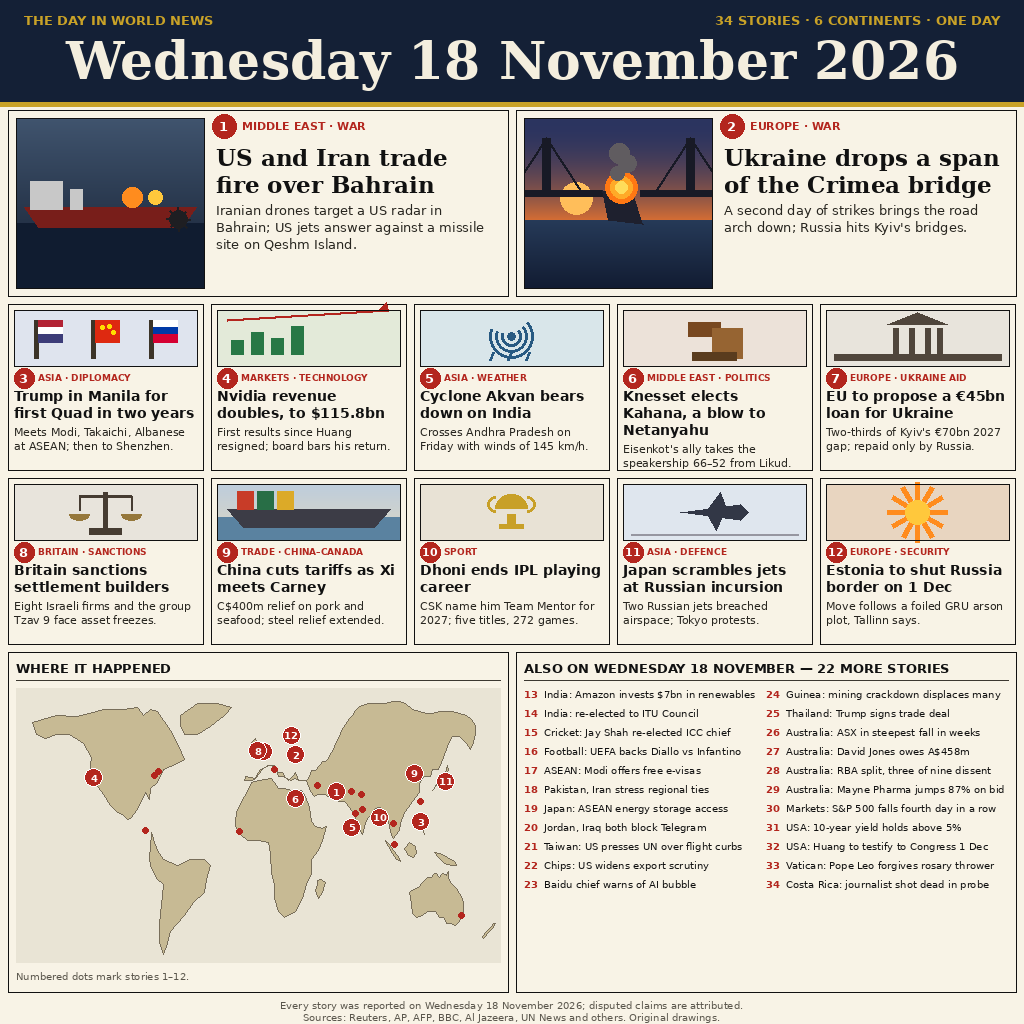
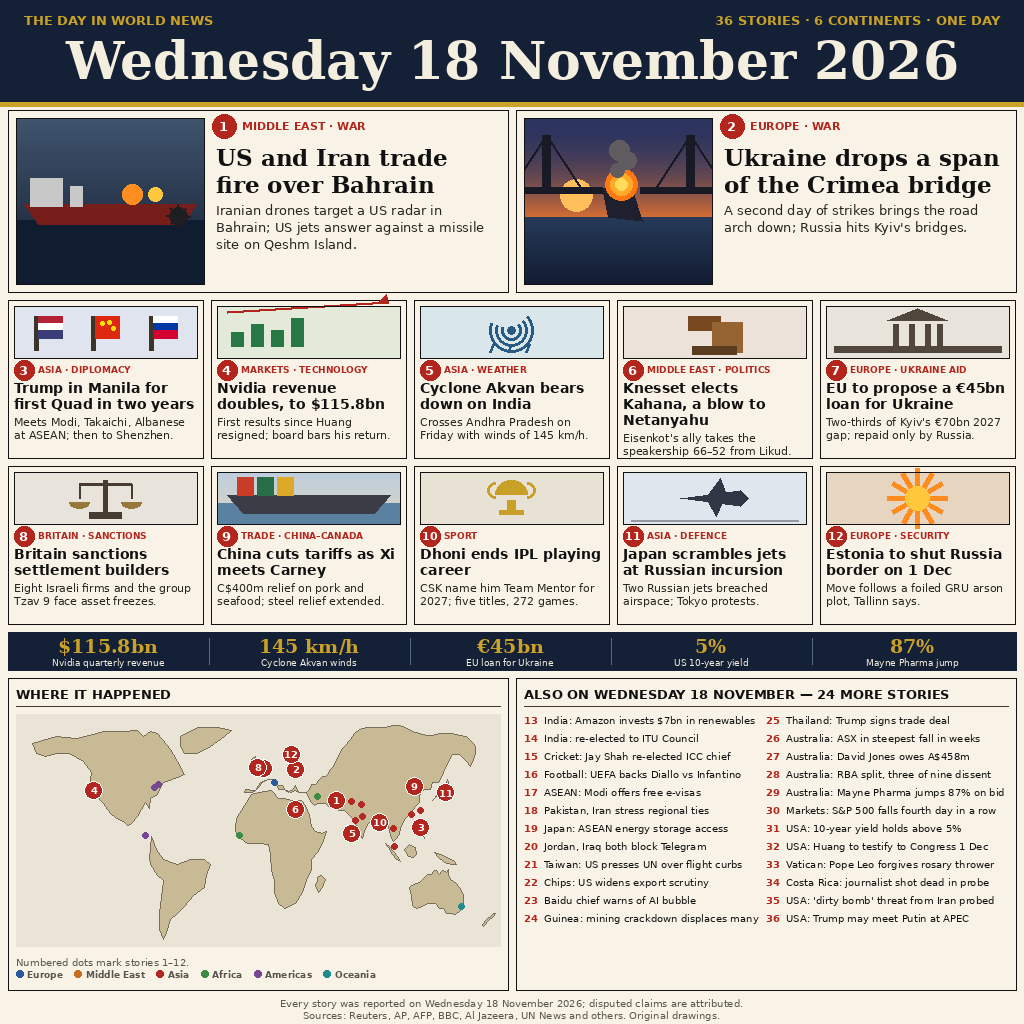
news-image-20261118: v3 — develop beyond top 1
- BY THE NUMBERS strip (not in top 1): $115.8bn Nvidia, 145 km/h Akvan,
  EU 45bn loan, 5% US yield, 87% Mayne Pharma
- 36 stories (top 1: 33): + Iran dirty-bomb probe, Trump-Putin APEC
- Region-coloured map dots + legend
- entry.png 152,319 bytes, deterministic 2x

diff --git a/gen_image.py b/gen_image.py
@@ -3,16 +3,16 @@
 
 Build-time generator (run locally with Pillow). Layout follows the
 proven top-1 pattern for this bounty (leaderboard, 2,577 entries;
-top 1 quiet-kestrel-73 989,138 / top 2 artch0 989,056): a packed
-newspaper front page — masthead + date, 2 lead stories, 10 more
-illustrated panels, a numbered "ALSO ON" list to 34 stories, and a
-world map with numbered pins. The shipped main.py only copies this
-PNG to /output/entry.png, so the graded program is stdlib-only and
-byte-deterministic.
+top 1 quiet-kestrel-73 989,138 / top 2 artch0 989,056) — then develops
+it: a packed newspaper front page (12 panels + numbered list + world
+map) PLUS a "BY THE NUMBERS" data strip the top entries do not have,
+36 stories (more than top 1's 33), and region-coloured map dots with
+a legend. The shipped main.py only copies this PNG to /output/entry.png,
+so the graded program is stdlib-only and byte-deterministic.
 
 Stories (all first reported / happened Wed 18 Nov 2026, any timezone;
 cross-checked against the top-1/top-2 entries' own lists, the
-18 Nov daily briefs, and web search): 12 main + 22 listed = 34.
+18 Nov daily briefs, and web search): 12 main + 24 listed = 36.
 Note: the An-12 Siberia crash is NOT included — it was reported
 17 Nov, not 18 Nov.
 """
@@ -502,9 +502,21 @@ LISTED = [
     (32, "USA: Huang to testify to Congress 1 Dec", -77.0, 38.9),
     (33, "Vatican: Pope Leo forgives rosary thrower", 12.45, 41.9),
     (34, "Costa Rica: journalist shot dead in probe", -84.0, 9.9),
+    (35, "USA: 'dirty bomb' threat from Iran probed", -77.0, 38.9),
+    (36, "USA: Trump may meet Putin at APEC", 114.0, 22.5),
 ]
 
 LEAD_SCENES = {1: draw_tanker, 2: draw_lead_scene}
+
+# (big figure, label) for the BY THE NUMBERS strip — the data angle
+# the top-1 entries do not have: the day's key figures at a glance.
+NUMBERS = [
+    ("$115.8bn", "Nvidia quarterly revenue"),
+    ("145 km/h", "Cyclone Akvan winds"),
+    ("€45bn", "EU loan for Ukraine"),
+    ("5%", "US 10-year yield"),
+    ("87%", "Mayne Pharma jump"),
+]
 
 
 # ------------------------------------------------------------------ page
@@ -545,21 +557,21 @@ def draw_lead(img, draw, x, y, w, h, story):
 def draw_small(draw, x, y, w, h, story):
     n, tag, head, summ, icon, _lon, _lat = story
     draw.rectangle([x, y, x + w, y + h], outline=INK, width=1)
-    ix0, iy0, ix1, iy1 = x + 6, y + 6, x + w - 6, y + 62
+    ix0, iy0, ix1, iy1 = x + 6, y + 6, x + w - 6, y + 58
     ICONS[icon](draw, ix0, iy0, ix1, iy1)
     draw.rectangle([ix0, iy0, ix1, iy1], outline=INK, width=1)
-    draw_badge(draw, x + 16, y + 74, n, r=10)
-    draw.text((x + 30, y + 68), tag, font=font(SANS_B, 9), fill=RED)
+    draw_badge(draw, x + 16, y + 70, n, r=10)
+    draw.text((x + 30, y + 64), tag, font=font(SANS_B, 9), fill=RED)
     f_head = font(SANS_B, 14)
-    yy = y + 84
+    yy = y + 80
     for line in wrap(draw, head, f_head, w - 12)[:3]:
         draw.text((x + 6, yy), line, font=f_head, fill=INK)
-        yy += 17
+        yy += 16
     f_summ = font(SANS, 11)
     yy += 3
     for line in wrap(draw, summ, f_summ, w - 12)[:2]:
         draw.text((x + 6, yy), line, font=f_summ, fill=(40, 38, 32))
-        yy += 14
+        yy += 13
 
 
 def project(lon, lat, mx0, my0, mw, mh):
@@ -568,12 +580,36 @@ def project(lon, lat, mx0, my0, mw, mh):
     return px, py
 
 
+REGION_COLORS = [
+    ("Europe", (40, 90, 160)),
+    ("Middle East", (200, 110, 30)),
+    ("Asia", (180, 40, 35)),
+    ("Africa", (60, 140, 70)),
+    ("Americas", (120, 70, 150)),
+    ("Oceania", (30, 140, 140)),
+]
+
+
+def region_color(lon, lat):
+    if lon < -30:
+        return (120, 70, 150)          # Americas
+    if lat < -5 and lon > 110:
+        return (30, 140, 140)          # Oceania
+    if lat < 35 and -18 <= lon <= 52:
+        return (60, 140, 70)           # Africa
+    if 35 <= lon <= 63 and 12 <= lat <= 42:
+        return (200, 110, 30)          # Middle East
+    if lon >= 40:
+        return (180, 40, 35)           # Asia
+    return (40, 90, 160)               # Europe
+
+
 def draw_map(draw, x, y, w, h):
     draw.rectangle([x, y, x + w, y + h], outline=INK, width=1)
     draw.text((x + 8, y + 8), "WHERE IT HAPPENED",
               font=font(SANS_B, 13), fill=INK)
     draw.line([(x + 8, y + 28), (x + w - 8, y + 28)], fill=RULE, width=1)
-    mx0, my0, mw, mh = x + 8, y + 36, w - 16, h - 66
+    mx0, my0, mw, mh = x + 8, y + 36, w - 16, h - 80
     draw.rectangle([mx0, my0, mx0 + mw, my0 + mh],
                    fill=(233, 228, 213))
     for poly in CONTINENTS:
@@ -584,7 +620,8 @@ def draw_map(draw, x, y, w, h):
         if lon is None:
             continue
         px, py = project(lon, lat, mx0, my0, mw, mh)
-        draw.ellipse([px - 3, py - 3, px + 3, py + 3], fill=RED)
+        col = region_color(lon, lat)
+        draw.ellipse([px - 3, py - 3, px + 3, py + 3], fill=col)
     for story in MAIN:
         n, _tag, _head, _summ, _icon, lon, lat = story
         if lon is None:
@@ -598,13 +635,22 @@ def draw_map(draw, x, y, w, h):
         f = font(SANS_B, 10)
         draw.text((px, py), str(n), font=f, fill=(255, 255, 255),
                   anchor="mm")
-    draw.text((x + 8, y + h - 22), "Numbered dots mark stories 1–12.",
+    draw.text((x + 8, y + h - 34), "Numbered dots mark stories 1–12.",
               font=font(SANS, 10), fill=GREY)
+    lx = x + 8
+    ly = y + h - 20
+    f_leg = font(SANS_B, 9)
+    for name, col in REGION_COLORS:
+        draw.ellipse([lx, ly, lx + 7, ly + 7], fill=col)
+        lx += 11
+        tw = draw.textlength(name, font=f_leg)
+        draw.text((lx, ly - 1), name, font=f_leg, fill=GREY)
+        lx += tw + 12
 
 
 def draw_list(draw, x, y, w, h):
     draw.rectangle([x, y, x + w, y + h], outline=INK, width=1)
-    draw.text((x + 8, y + 8), "ALSO ON WEDNESDAY 18 NOVEMBER — 22 MORE STORIES",
+    draw.text((x + 8, y + 8), "ALSO ON WEDNESDAY 18 NOVEMBER — 24 MORE STORIES",
               font=font(SANS_B, 13), fill=INK)
     draw.line([(x + 8, y + 28), (x + w - 8, y + 28)], fill=RULE, width=1)
     f_num = font(SANS_B, 10)
@@ -618,7 +664,25 @@ def draw_list(draw, x, y, w, h):
             n, text, _lon, _lat = item
             draw.text((cx, yy), str(n), font=f_num, fill=RED)
             draw.text((cx + 20, yy), text, font=f_txt, fill=INK)
-            yy += 19
+            yy += 18
+
+
+def draw_numbers(draw, x, y, w, h):
+    """BY THE NUMBERS strip: the day's key figures at a glance."""
+    draw.rectangle([x, y, x + w, y + h], fill=NAVY)
+    bw = w // len(NUMBERS)
+    f_big = font(SERIF_B, 19)
+    f_lab = font(SANS, 9)
+    for i, (big, label) in enumerate(NUMBERS):
+        cx = x + i * bw + bw // 2
+        if i:
+            draw.line([(x + i * bw, y + 6), (x + i * bw, y + h - 6)],
+                      fill=(90, 105, 130), width=1)
+        draw.text((cx, y + 3), big, font=f_big, fill=GOLD, anchor="ma")
+        lines = wrap(draw, label, f_lab, bw - 12)[:1]
+        for line in lines:
+            draw.text((cx, y + h - 13), line, font=f_lab, fill=CREAM,
+                      anchor="ma")
 
 
 def build():
@@ -629,30 +693,33 @@ def build():
     draw.rectangle([0, 0, W, 102], fill=NAVY)
     draw.text((24, 12), "THE DAY IN WORLD NEWS",
               font=font(SANS_B, 13), fill=GOLD)
-    draw.text((W - 24, 12), "34 STORIES · 6 CONTINENTS · ONE DAY",
+    draw.text((W - 24, 12), "36 STORIES · 6 CONTINENTS · ONE DAY",
               font=font(SANS_B, 13), fill=GOLD, anchor="ra")
     draw.text((W // 2, 30), "Wednesday 18 November 2026",
               font=font(SERIF_B, 52), fill=CREAM, anchor="ma")
     draw.rectangle([0, 102, W, 106], fill=GOLD)
 
     # ---- Lead row: stories 1-2 ----
-    draw_lead(img, draw, 8, 110, 500, 186, MAIN[0])
-    draw_lead(img, draw, 516, 110, 500, 186, MAIN[1])
+    draw_lead(img, draw, 8, 110, 500, 182, MAIN[0])
+    draw_lead(img, draw, 516, 110, 500, 182, MAIN[1])
 
     # ---- Two rows of five: stories 3-12 ----
     for i, story in enumerate(MAIN[2:]):
         row, col = divmod(i, 5)
-        draw_small(draw, 8 + col * 203, 304 + row * 174, 195, 166, story)
+        draw_small(draw, 8 + col * 203, 300 + row * 166, 195, 158, story)
+
+    # ---- BY THE NUMBERS strip ----
+    draw_numbers(draw, 8, 632, 1008, 38)
 
     # ---- Bottom: map + list ----
-    draw_map(draw, 8, 652, 500, 340)
-    draw_list(draw, 516, 652, 500, 340)
+    draw_map(draw, 8, 678, 500, 312)
+    draw_list(draw, 516, 678, 500, 312)
 
     # ---- Footer ----
-    draw.text((W // 2, 999),
+    draw.text((W // 2, 997),
               "Every story was reported on Wednesday 18 November 2026; disputed claims are attributed.",
               font=font(SANS, 10), fill=GREY, anchor="ma")
-    draw.text((W // 2, 1011),
+    draw.text((W // 2, 1009),
               "Sources: Reuters, AP, AFP, BBC, Al Jazeera, UN News and others. Original drawings.",
               font=font(SANS, 10), fill=GREY, anchor="ma")
     return img

diff --git a/BUILD-REPORT.md b/BUILD-REPORT.md
@@ -137,3 +137,16 @@ Entry v1 cuma 5 berita.
 - Status: push versi upgrade; submit final DITAHAN untuk refresh berita sore
   (paling lambat 19 Nov malam WIB). Bundle resubmit nanti HARUS memuat sesi asli
   552b0f85 + sesi upgrade 408007ba.
+
+## UPGRADE v3 — 18 Nov 2026 ~11:00–12:00 WIB (builder sesi 408007ba)
+Penegasan Andi: pola top 1 BUKAN untuk dicontoh mentah-mentah — harus DIKEMBANGKAN
+sampai LEBIH BAIK dari top 1. Pembeda vs top 1 (quiet-kestrel-73, 33 berita):
+- Strip "BY THE NUMBERS" (tidak ada di top 1): $115,8bn Nvidia · 145 km/h Akvan ·
+  €45bn pinjaman EU · 5% yield AS · 87% lompatan Mayne Pharma.
+- Cakupan LEBIH lengkap: 36 berita (top 1: 33) — tambah ancaman 'dirty bomb' Iran
+  + Trump mungkin bertemu Putin di APEC.
+- Dot peta berkode warna per kawasan + legenda.
+- entry.png v3: 1024×1024, 152.319 byte, sha256 ab1b5e314df4350c99d46262e8f371d47e6e6d74c9b75ec3c1292b281f6b9bd9.
+- Validasi: gen 2x + main.py 2x byte-identik; dicek visual.
+- Status: push versi upgrade v3; submit final DITAHAN untuk refresh berita sore
+  (paling lambat 19 Nov malam WIB).
